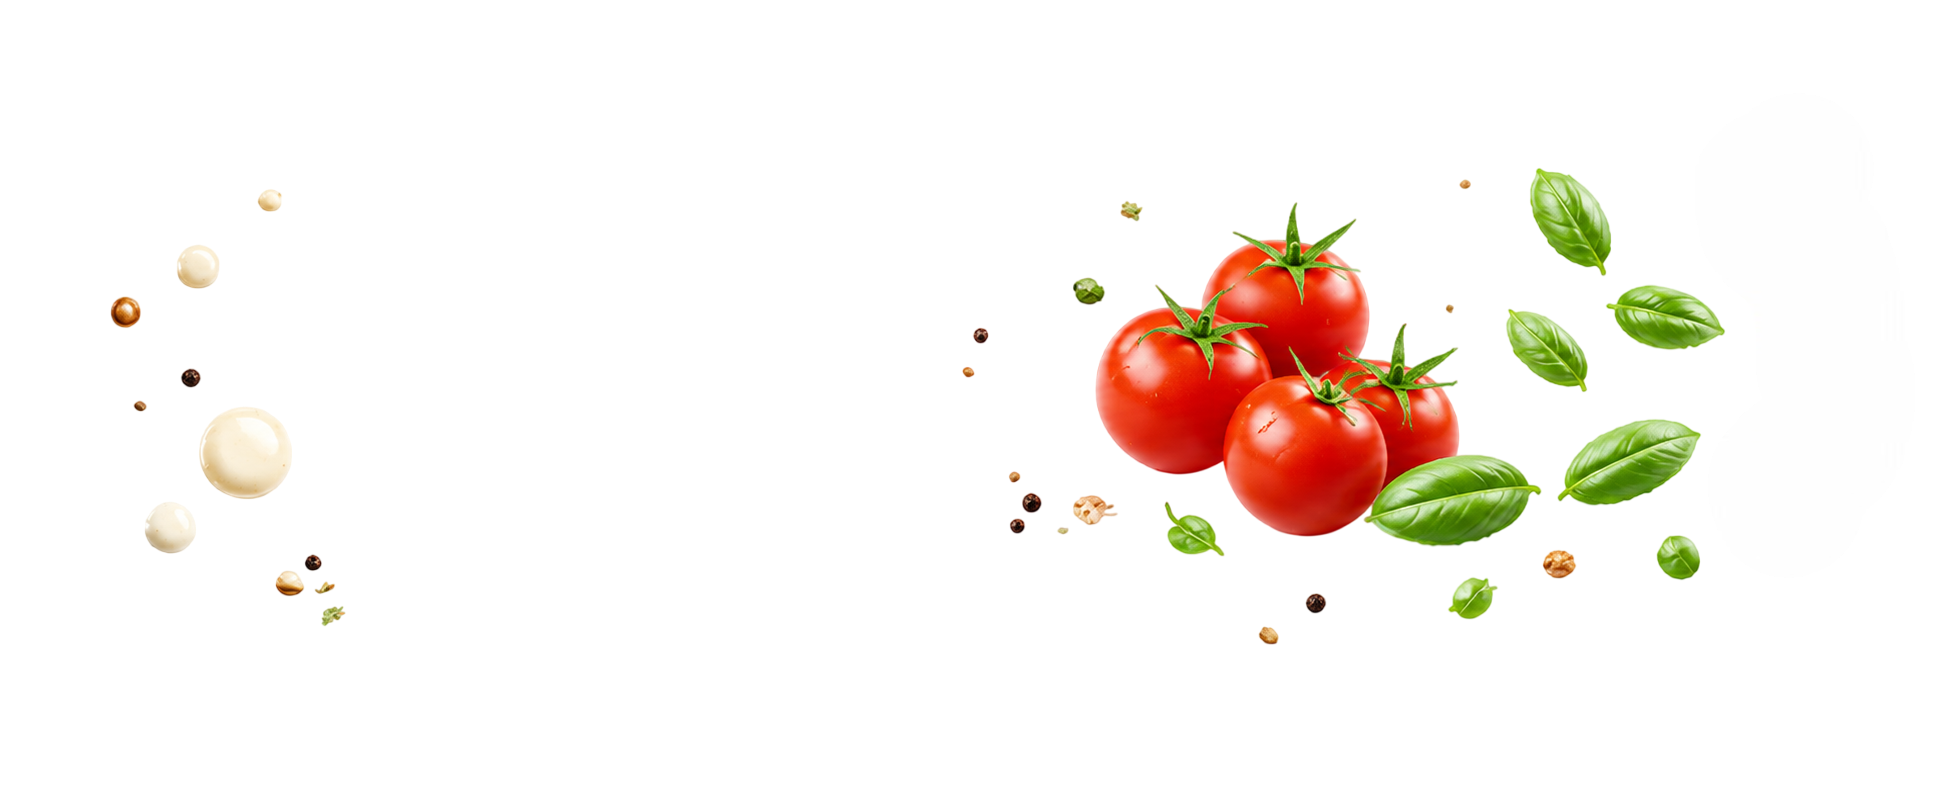
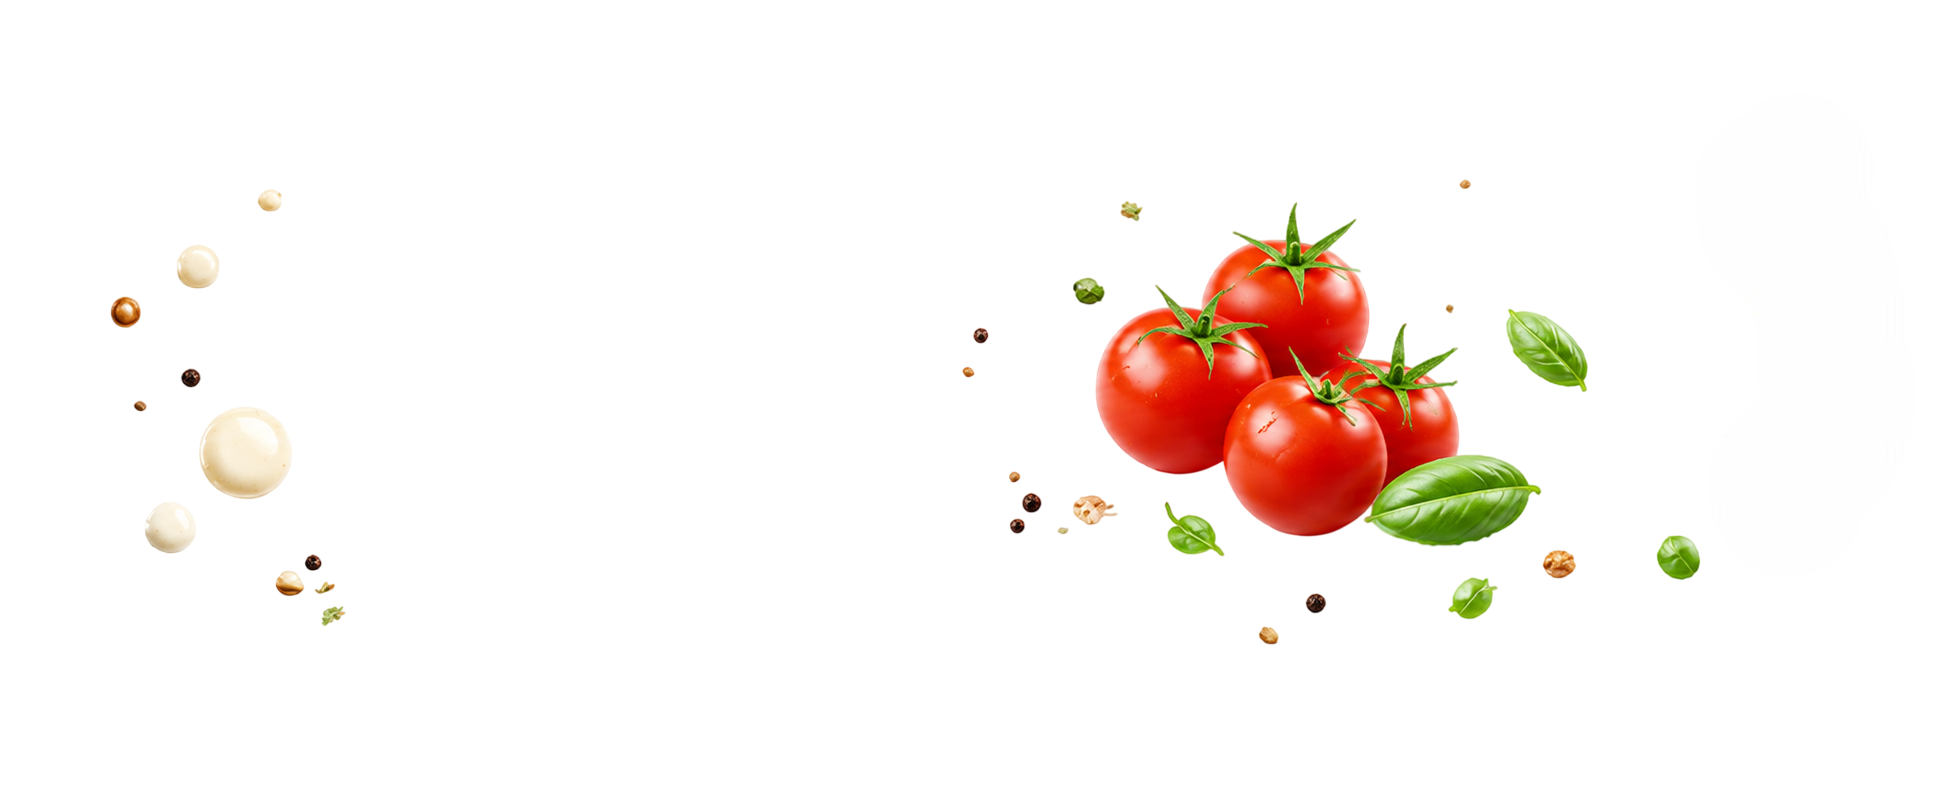
fix(home): remove promo leaves cleanly

Changed region(s): [[0.8033, 0.4944, 0.896, 0.6489], [0.7724, 0.2163, 0.8342, 0.3399], [0.8033, 0.3399, 0.896, 0.4326]]

diff --git a/src/components/layout/navbar/Navbar.tsx b/src/components/layout/navbar/Navbar.tsx
@@ -425,7 +425,7 @@ export const Navbar = () => {
         <CouponPerkBanner coupons={couponsQuery.coupons} currency={currency} />
 
         {/* NAVBAR */}
-        <nav className="mx-auto flex max-w-[1440px] items-center justify-between gap-5 px-5 py-5 lg:px-8 xl:gap-8 2xl:gap-10 2xl:px-10">
+        <nav className="mx-auto flex max-w-[1440px] items-center justify-between gap-5 px-5 py-5 lg:px-8 xl:gap-12 2xl:gap-16 2xl:px-10">
           {/* LEFT - LOGO */}
           <Link
             href="/"

diff --git a/src/components/pages/Home/components/appPromoSection.tsx b/src/components/pages/Home/components/appPromoSection.tsx
@@ -45,7 +45,7 @@ export function AppPromo() {
             aria-hidden="true"
             loading="lazy"
             decoding="async"
-            className="pointer-events-none absolute left-[1.4%] top-[10%] z-10 hidden h-auto w-[45%] max-w-[760px] select-none [clip-path:inset(0_20%_0_0)] lg:block xl:left-[1.8%] 2xl:left-[2.2%]"
+            className="pointer-events-none absolute left-[1.4%] top-[10%] z-10 hidden h-auto w-[45%] max-w-[760px] select-none lg:block xl:left-[1.8%] 2xl:left-[2.2%]"
           />
 
           <img